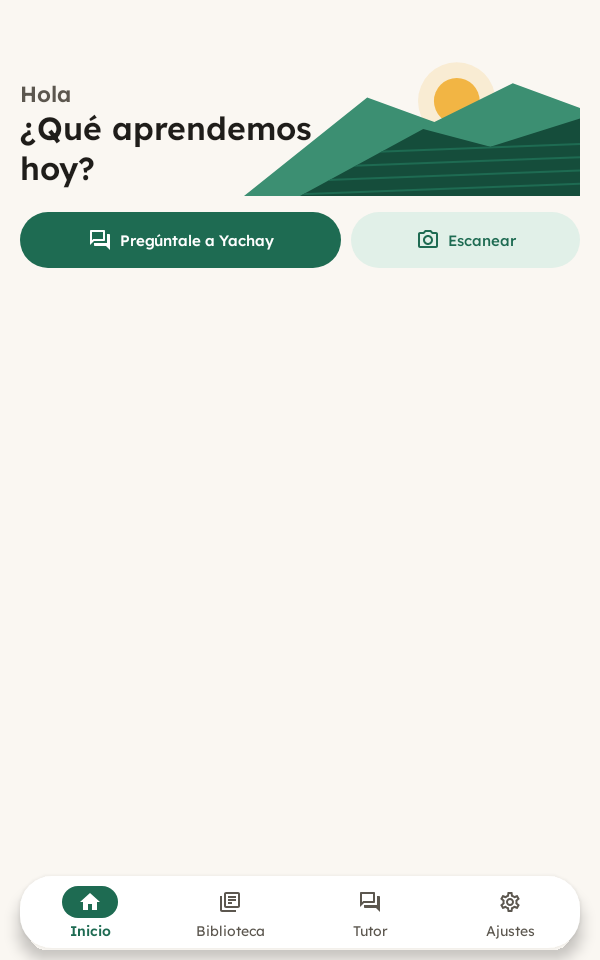
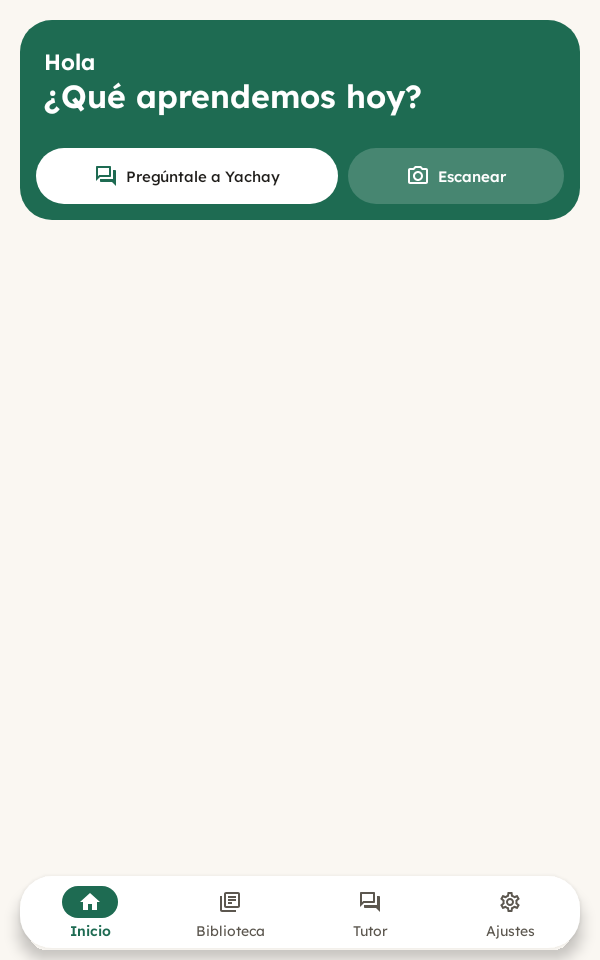
feat(ui): restore the green home hero without the landscape drawing
Keep the brand-colored hero, remove the mountains illustration and shorten the hero to fit the greeting and actions.

Changed region(s): [[0.03, 0.0, 0.99, 0.2812]]

diff --git a/app/src/main/java/pe/edu/unmsm/yachaytext/ui/inicio/InicioScreen.kt b/app/src/main/java/pe/edu/unmsm/yachaytext/ui/inicio/InicioScreen.kt
@@ -69,7 +69,6 @@ import pe.edu.unmsm.yachaytext.domain.tutor.IniciarConsulta
 import pe.edu.unmsm.yachaytext.ui.biblioteca.LibroUi
 import pe.edu.unmsm.yachaytext.ui.common.ConversacionResumen
 import pe.edu.unmsm.yachaytext.ui.common.EstadoVacio
-import pe.edu.unmsm.yachaytext.ui.common.PaisajeAndino
 import pe.edu.unmsm.yachaytext.ui.common.PortadaLibro
 import pe.edu.unmsm.yachaytext.ui.common.TarjetaPortada
 import pe.edu.unmsm.yachaytext.ui.common.TituloSeccion
@@ -166,7 +165,7 @@ fun InicioScreen(estado: InicioUiState, acciones: AccionesInicio, ahora: Long = 
         if (maxWidth >= 840.dp) {
             // Pantalla ancha: la portada a todo el ancho y, debajo, conversaciones y libros lado a lado.
             LazyColumn(Modifier.widthIn(max = 1200.dp).fillMaxSize(), contentPadding = relleno) {
-                cabecera(estado, acciones, alto = 200.dp)
+                cabecera(estado, acciones, alto = 184.dp)
                 item {
                     Row(verticalAlignment = Alignment.Top) {
                         Column(Modifier.weight(1f)) { ColumnaConversaciones(estado, acciones, ahora) }
@@ -186,7 +185,7 @@ fun InicioScreen(estado: InicioUiState, acciones: AccionesInicio, ahora: Long = 
 
 private fun Modifier.margen() = padding(horizontal = Margen)
 
-private fun LazyListScope.cabecera(estado: InicioUiState, acciones: AccionesInicio, alto: Dp = 248.dp) {
+private fun LazyListScope.cabecera(estado: InicioUiState, acciones: AccionesInicio, alto: Dp = 200.dp) {
     item { Portada(estado.nombre, acciones, alto, Modifier.margen()) }
     if (!estado.cargando && estado.conversaciones.isEmpty() && estado.libros.isEmpty()) {
         item {
@@ -270,21 +269,23 @@ private fun ColumnaLibros(estado: InicioUiState, acciones: AccionesInicio, ahora
 /** Saludo y las dos acciones principales en un solo bloque: el ancla visual de Inicio. */
 @Composable
 private fun Portada(nombre: String?, acciones: AccionesInicio, alto: Dp, modifier: Modifier = Modifier) {
-    // Sin recuadro: el saludo va directo sobre el fondo y el paisaje queda como ilustración suelta.
-    Column(modifier.fillMaxWidth()) {
-        Box(Modifier.fillMaxWidth().height(alto - 72.dp)) {
-            PaisajeAndino()
-            Column(Modifier.fillMaxWidth(0.62f).align(Alignment.BottomStart).padding(bottom = 8.dp)) {
-                Text(if (nombre != null) "Hola," else "Hola", style = MaterialTheme.typography.titleLarge, color = TextSecondary)
-                Text(nombre ?: "¿Qué aprendemos hoy?", style = MaterialTheme.typography.displaySmall, color = Ink, modifier = Modifier.semantics { heading() })
-            }
+    Box(
+        modifier
+            .fillMaxWidth()
+            .height(alto)
+            .clip(RoundedCornerShape(32.dp))
+            .background(Brand),
+    ) {
+        Column(Modifier.padding(start = 24.dp, end = 24.dp, top = 28.dp)) {
+            Text(if (nombre != null) "Hola," else "Hola", style = MaterialTheme.typography.titleLarge, color = Paper)
+            Text(nombre ?: "¿Qué aprendemos hoy?", style = MaterialTheme.typography.displaySmall, color = Paper, modifier = Modifier.semantics { heading() })
         }
         Row(
-            Modifier.widthIn(max = 560.dp).fillMaxWidth().padding(top = 16.dp),
+            Modifier.align(Alignment.BottomStart).widthIn(max = 560.dp).fillMaxWidth().padding(16.dp),
             horizontalArrangement = Arrangement.spacedBy(10.dp),
         ) {
-            AccionPortada("Pregúntale a Yachay", Icons.Outlined.Forum, Brand, Paper, acciones.onPreguntar, Modifier.weight(1.4f))
-            AccionPortada("Escanear", Icons.Outlined.CameraAlt, BrandSoft, Brand, acciones.onEscanear, Modifier.weight(1f))
+            AccionPortada("Pregúntale a Yachay", Icons.Outlined.Forum, Paper, Ink, acciones.onPreguntar, Modifier.weight(1.4f))
+            AccionPortada("Escanear", Icons.Outlined.CameraAlt, Paper.copy(alpha = 0.18f), Paper, acciones.onEscanear, Modifier.weight(1f))
         }
     }
 }

diff --git a/app/src/main/java/pe/edu/unmsm/yachaytext/ui/common/Logo.kt b/app/src/main/java/pe/edu/unmsm/yachaytext/ui/common/Logo.kt
@@ -1,0 +1,25 @@
+package pe.edu.unmsm.yachaytext.ui.common
+
+import androidx.compose.foundation.Image
+import androidx.compose.foundation.layout.Box
+import androidx.compose.foundation.layout.fillMaxSize
+import androidx.compose.foundation.layout.size
+import androidx.compose.foundation.shape.CircleShape
+import androidx.compose.material3.Surface
+import androidx.compose.runtime.Composable
+import androidx.compose.ui.Modifier
+import androidx.compose.ui.res.painterResource
+import androidx.compose.ui.unit.Dp
+import androidx.compose.ui.unit.dp
+import pe.edu.unmsm.yachaytext.R
+import pe.edu.unmsm.yachaytext.ui.theme.Brand
+
+/** Logo de Yachay (el mismo del ícono de la app) dentro de un círculo verde. */
+@Composable
+fun LogoYachay(tamano: Dp = 96.dp, modifier: Modifier = Modifier) {
+    Surface(color = Brand, shape = CircleShape, modifier = modifier.size(tamano)) {
+        Box {
+            Image(painterResource(R.drawable.ic_launcher_foreground), contentDescription = null, modifier = Modifier.fillMaxSize())
+        }
+    }
+}
